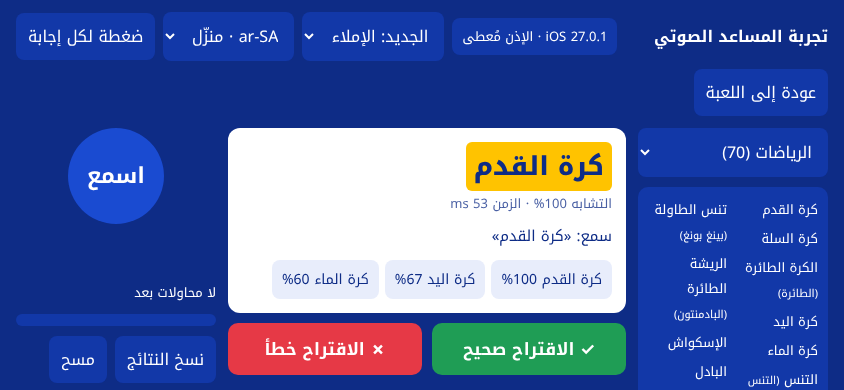
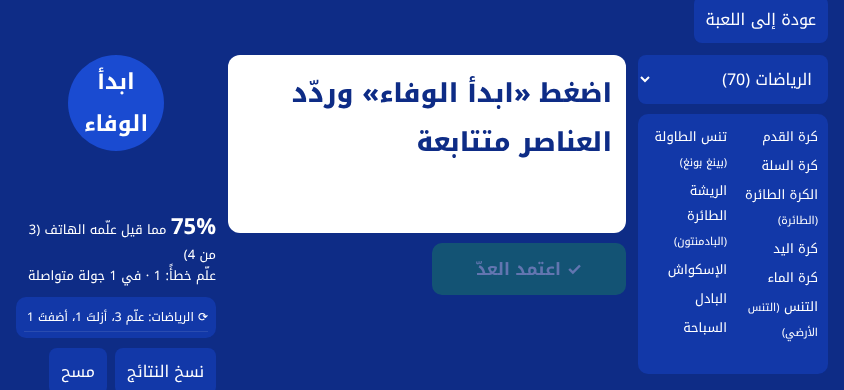
ت3: كلمات «سمع» المتجاورة إجابة واحدة والمتباعدة إجابات مستقلة، وما طابق القائمة لا يُعدّ مرتين (ملاحظة المالك)
Claude-Session: https://claude.ai/code/session_01RdLZ26qJXRv6ztvtDCRanz

diff --git a/app/lab/voice.js b/app/lab/voice.js
@@ -102,24 +102,36 @@ function drawRun() {
   drawList();
   const left = run.ended ? 0 : Math.max(0, RUN_SECONDS - Math.floor((performance.now() - run.t0) / 1000));
   $('pick').innerHTML = `ذُكر <span class="hl">${picks.length + run.extras.length}</span> من ${topic.items.length}`;
-  $('why').textContent = run.ended ? 'انتهى. أزل الخطأ بنقرة، وأضف ما فات من القائمة، أو انقر كلمات «سمع» لتعتمد ما ليس فيها، ثم «اعتمد»' : `أسمع… باقي ${left} ثانية`;
+  $('why').textContent = run.ended ? 'انتهى. أزل الخطأ بنقرة، وأضف ما فات من القائمة، أو انقر كلمات «سمع» لتعتمد ما ليس فيها (المتجاورة إجابة واحدة)، ثم «اعتمد»' : `أسمع… باقي ${left} ثانية`;
   // بعد الانتهاء: كل كلمة مسموعة تُنقر، والمتجاورة المختارة عبارة واحدة تُعتمد خارج القائمة (المالك، 11 نوفمبر).
   const ws = run.text ? run.text.split(/\s+/) : [];
   $('heard').innerHTML = `سمع: «<bdi>${ws.length ? ws.map((w, k) => `<span class="w${run.sel.has(k) ? ' sel' : ''}" data-w="${k}">${w}</span>`).join(' ') : '—'}</bdi>»`;
-  const phrase = selPhrase();
-  $('addx').hidden = !phrase;
-  $('addx').textContent = phrase ? `اعتمد «${phrase}» خارج القائمة` : '';
+  const phrases = selPhrases();
+  $('addx').hidden = !phrases.length;
+  $('addx').textContent = phrases.length === 1 ? `اعتمد «${phrases[0]}» خارج القائمة`
+    : phrases.length ? `اعتمد ${phrases.length} إجابات خارج القائمة: ${phrases.map(x => `«${x}»`).join(' ')}` : '';
   $('top').innerHTML = picks.map(c => `<button data-i="${c.i}" class="${c.man ? 'man' : ''}">${c.name} ✕</button>`).join('')
     + run.extras.map((x, k) => `<button data-x="${k}" class="extra">${x} ✕</button>`).join('');
   $('ok').disabled = !run.ended;
 }
-function selPhrase() {
+// الكلمات المختارة تُقسم مجموعات متجاورة: كل مجموعة إجابة مستقلة، والمركّبة («ريشة طائرة») تبقى معاً.
+function selPhrases() {
   const ws = run.text ? run.text.split(/\s+/) : [];
-  return [...run.sel].sort((a, b) => a - b).map(k => ws[k]).filter(Boolean).join(' ');
+  const ks = [...run.sel].sort((a, b) => a - b);
+  const groups = [];
+  for (const k of ks) {
+    const g = groups[groups.length - 1];
+    if (g && k === g[g.length - 1] + 1) g.push(k); else groups.push([k]);
+  }
+  return groups.map(g => g.map(k => ws[k]).filter(Boolean).join(' ')).filter(Boolean);
 }
 function addExtra() {
-  const phrase = selPhrase();
-  if (phrase && !run.extras.includes(phrase)) run.extras.push(phrase);
+  for (const phrase of selPhrases()) {
+    // إن طابقت العبارة عنصراً في القائمة فهي ذلك العنصر، فلا تُعدّ مرتين.
+    const r = matchAll([phrase], prepared);
+    if (r.sure) { run.removed.delete(r.pick.i); run.added.add(r.pick.i); }
+    else if (!run.extras.includes(phrase)) run.extras.push(phrase);
+  }
   run.sel = new Set();
   drawRun();
 }
